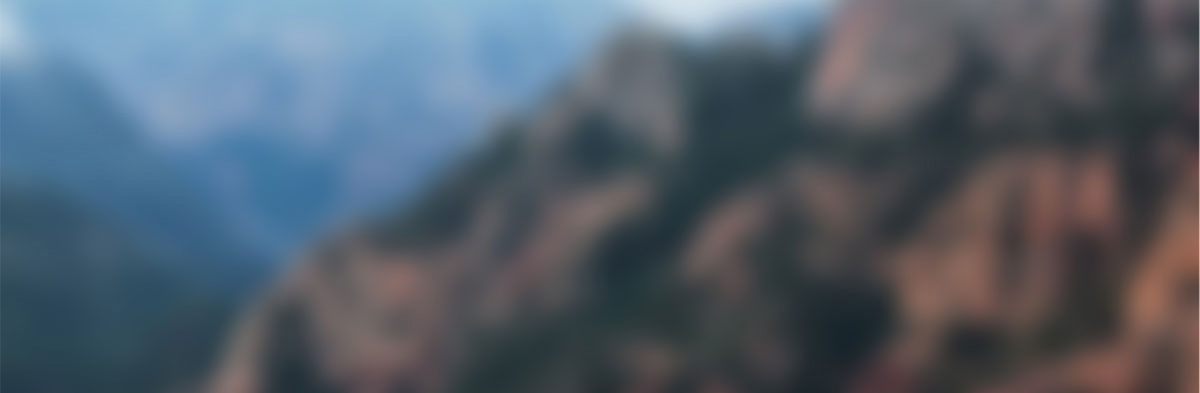
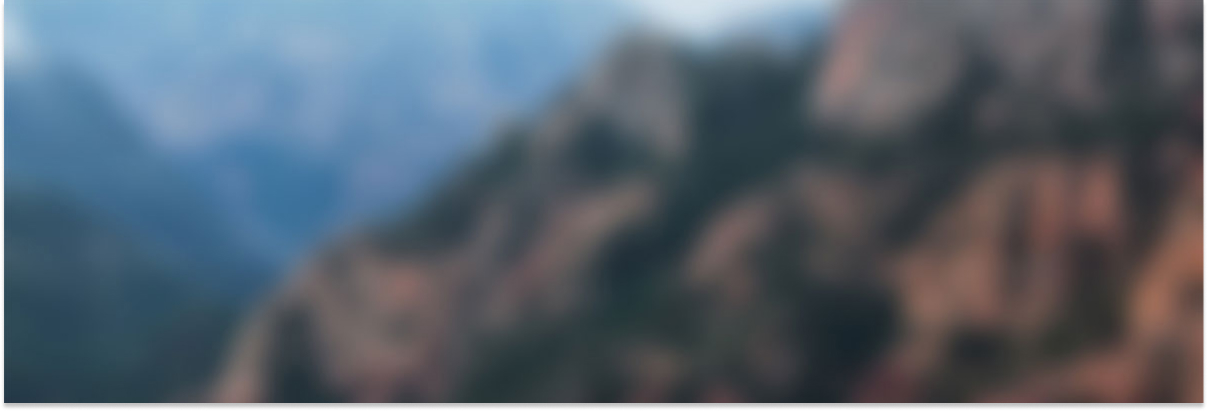
Добавляет стилизацию форм в каталоге

Changed region(s): [[0.0, 0.0, 1.0, 1.0], [0.8633, 0.855, 0.925, 0.916], [0.7708, 0.7939, 0.8325, 0.8244]]

diff --git a/styles/catalog-styles.css b/styles/catalog-styles.css
@@ -2,9 +2,10 @@
   background-color: #3a6488;
   color: #ffffff;
   background-image: url("../images/catalog/filter-background.jpg");
-  background-size: 1200px 403px;
+  /* background-size: 1200px 403px; */
   background-repeat: no-repeat;
-  background-position: center;
+  background-position: top;
+  background-size: auto;
   padding: 35px 70px 70px 70px;
 }
 
@@ -91,7 +92,7 @@
 
 .catalog-filter {
   display: flex;
-  flex-wrap: wrap;
+  flex-wrap: nowrap;
   padding: 0px;
   margin: 0px;
 }
@@ -100,12 +101,35 @@
   padding: 0px;
   margin: 0px;
   margin-right: 70px;
+  border: none;
+}
+
+.catalog-filter-infrastructure {
+  padding: 0px;
+  margin: 0px;
+  margin-bottom: 30px;
+}
+
+
+.catalog-filter-type {
+  padding: 0px;
+  margin: 0px;
+  margin-bottom: 30px;
+}
+
+.catalog-filter-infrastructure-item:last-of-type,
+.catalog-filter-type-item:last-of-type {
+  margin-bottom: 0px;
 }
 
 .cost-filter {
   margin: 0px;
   margin-left: auto;
-  margin-right: 70px
+  margin-right: 70px;
+}
+
+.catalog-filter-cost {
+  margin-bottom: 34px;
 }
 
 .catalog-filter-infrastructure-list {
@@ -120,11 +144,236 @@
   list-style-type: none;
 }
 
-.catalog-filter-infrastructure-item, .catalog-filter-type-item {
+.catalog-filter-infrastructure-item,
+.catalog-filter-type-item {
   font-weight: 400;
   font-size: 18px;
   line-height: 21px;
+  padding: 0px;
+  margin: 0px;
+  margin-bottom: 15px;
 }
+
+.control {
+  position: relative;
+  display: block;
+  padding-left: 40px;
+  cursor: pointer;
+  outline: none;
+}
+
+.control-mark {
+  position: absolute;
+  left: 0px;
+  width: 20px;
+  height: 20px;
+  background-color: #ffffff;
+  border-radius: 4px;
+}
+
+.catalog-filter-infrastructure-item
+.control:hover
+.control-mark {
+  background-color: rgba(255, 255, 255, 0.6);
+}
+
+.catalog-filter-infrastructure-item
+.control:focus-within
+.control-mark {
+  background-color: rgba(255, 255, 255, 0.6);
+  outline: 3px solid #83b3d3;
+}
+
+.catalog-filter-infrastructure-item
+.control:active
+.control-mark {
+  background-color: rgba(255, 255, 255, 0.3);
+}
+
+.control-input[type="checkbox"]:checked + .control-mark::before {
+  position: absolute;
+  top: 5px;
+  left: 4px;
+  width: 12px;
+  height: 10px;
+  background-image: url("../images/catalog/checkbox-marker.svg");
+  background-repeat: no-repeat;
+  background-position: center;
+  content: "";
+  z-index: 1;
+}
+
+.control-input[type="radio"] + .control-mark {
+  border-radius: 50%;
+}
+
+.control-input[type="radio"]:checked + .control-mark::before {
+  position: absolute;
+  top: 5px;
+  left: 5px;
+  width: 10px;
+  height: 10px;
+  background-color: #3f5e72;
+  border-radius: 50%;
+  content: "";
+}
+
+.catalog-filter-type-item
+.control:hover
+.control-mark {
+  background-color: rgba(255, 255, 255, 0.6);
+}
+
+.catalog-filter-type-item
+.control:focus-within
+.control-mark {
+  outline: 3px solid #83b3d3;
+}
+
+.catalog-filter-type-item
+.control:active
+.control-mark {
+  background-color: rgba(255, 255, 255, 0.3);
+}
+
+.range-inputs-wrapper {
+  display: flex;
+  margin-bottom: 32px;
+}
+
+.range-input {
+  box-sizing: border-box;
+  margin: 0px;
+  padding: 0px;
+  padding-left: 18px;
+  width: 144px;
+  font-family: 'PT Sans';
+  font-style: normal;
+  font-weight: 400;
+  font-size: 18px;
+  line-height: 44px;
+  color: #ffffff;
+  background-color: transparent;
+  border: 2px solid #ffffff;
+}
+
+input::-webkit-outer-spin-button,
+input::-webkit-inner-spin-button {
+  -webkit-appearance: none;
+}
+
+input[type=number] {
+  -moz-appearance: textfield;
+}
+
+.input-min {
+  position: relative;
+  border-top-left-radius: 4px;
+  border-bottom-left-radius: 4px;
+  border-right-width: 1px;
+}
+
+.input-max {
+  border-top-right-radius: 4px;
+  border-bottom-right-radius: 4px;
+  border-left-width: 1px;
+}
+
+.input-min::placeholder,
+.input-max::placeholder {
+  color: #ffffff;
+}
+
+.input-min:hover,
+.input-max:hover {
+  border-color: rgba(255, 255, 255, 0.6);
+}
+
+.input-min:focus,
+.input-max:focus {
+  box-shadow:
+  0px 0px 0px 3px #81b3d2,
+  inset 0px 0px 0px 3px #81b3d2;
+  border: 2px solid #ffffff;
+  outline: none;
+}
+
+.input-max:focus {
+  padding-left: 17px;
+}
+
+.input-min:not(:placeholder-shown),
+.input-max:not(:placeholder-shown) {
+  background-color: #756257;
+}
+
+.input-label {
+  position: relative;
+}
+
+.input-min-label,
+.input-max-label {
+  position: absolute;
+  top: 50%;
+  right: 14px;
+  margin: auto;
+  font-weight: 400;
+  font-size: 18px;
+  line-height: 21px;
+  color: rgba(255, 255, 255, 0.3);
+  transform: translateY(-50%);
+  z-index: 1;
+}
+
+.range-scale {
+  position: relative;
+  height: 4px;
+  width: 288px;
+  margin-bottom: 0px;
+  background-color: rgba(255, 255, 255, 0.5);
+}
+
+.range-bar {
+  position: absolute;
+  height: 4px;
+  background-color: #ffffff;
+}
+
+.range-toggle {
+  position: absolute;
+  width: 20px;
+  height: 20px;
+  background-color: #ffffff;
+  border-radius: 5px;
+  border-style: none;
+  padding: 0px;
+  cursor: pointer;
+}
+
+.range-toggle:hover {
+  box-shadow: 0px 4px 10px rgba(0, 0, 0, 0.25);
+}
+
+.range-toggle:focus-within {
+  outline: 3px solid #83b3d3;
+  box-shadow: 0px 4px 10px rgba(0, 0, 0, 0.25);
+}
+
+.range-toggle:active {
+  outline: 2px solid #83b3d3;
+  box-shadow: 0px 7px 15px rgba(0, 0, 0, 0.4);
+}
+
+.toggle-min {
+  top: -8px;
+  left: 0px;
+}
+
+.toggle-max {
+  top: -8px;
+  right: 0px;
+}
+
 
 .filter-button-wrapper {
   display: flex;
@@ -204,7 +453,7 @@
   font-size: 18px;
   line-height: 21px;
   color: #333333;
-  border: 2px solid #E5E5E5;
+  border: 2px solid #e5e5e5;
   border-radius: 4px;
   background: url("../images/catalog/sort-arrow.svg") no-repeat;
   background-position: 258px;

diff --git a/catalog.html b/catalog.html
@@ -84,21 +84,24 @@
                 <ul class="catalog-filter-infrastructure-list">
                   <li class="catalog-filter-infrastructure-item">
                     <label class="control">
-                      <input class="control-input" type="checkbox" name="swimming-pool" checked>
-                        Бассейн
+                      <input class="visually-hidden control-input" type="checkbox" name="swimming-pool" checked>
+                      <span class="control-mark"></span>
+                      <span class="control-title">Бассейн</span>
                     </label>
                   </li>
                   <li class="catalog-filter-infrastructure-item">
                     <label class="control">
-                      <input class="control-input" type="checkbox" name="parking" checked>
-                        Парковка
+                      <input class="visually-hidden control-input" type="checkbox" name="parking" checked>
+                      <span class="control-mark"></span>
+                      <span class="control-title">Парковка</span>
                     </label>
                   </li>
                   <li class="catalog-filter-infrastructure-item">
                     <label class="control">
-                      <input class="control-input" type="checkbox" name="wi-fi">
-                        Wi-Fi
-                      </label>
+                      <input class="visually-hidden control-input" type="checkbox" name="wi-fi">
+                      <span class="control-mark"></span>
+                      <span class="control-title">Wi-Fi</span>
+                    </label>
                   </li>
                 </ul>
               </fieldset>
@@ -108,20 +111,23 @@
                 <ul class="catalog-filter-type-list">
                   <li class="catalog-filter-type-item">
                     <label class="control">
-                      <input class="control-input" type="radio" name="type" value="hotel" checked>
-                        Гостиница
+                      <input class="visually-hidden control-input" type="radio" name="type" value="hotel" checked>
+                      <span class="control-mark"></span>
+                      <span class="control-title">Гостиница</span>
                     </label>
                   </li>
                   <li class="catalog-filter-type-item">
                     <label class="control">
-                      <input class="control-input" type="radio" name="type" value="motel">
-                        Мотель
-                      </label>
+                      <input class="visually-hidden control-input" type="radio" name="type" value="motel">
+                      <span class="control-mark"></span>
+                      <span class="control-title">Мотель</span>
+                    </label>
                   </li>
                   <li class="catalog-filter-type-item">
                     <label class="control">
-                      <input class="control-input" type="radio" name="type" value="apartments">
-                        Апартаменты
+                      <input class="visually-hidden control-input" type="radio" name="type" value="apartments">
+                      <span class="control-mark"></span>
+                      <span class="control-title">Апартаменты</span>
                     </label>
                   </li>
                 </ul>
@@ -129,6 +135,26 @@
 
               <fieldset class="catalog-filter-group cost-filter">
                 <legend class="catalog-filter-cost">Стоимость, ₽:</legend>
+                <div class="range-inputs-wrapper">
+                  <label class="input-label">
+                    <span class="input-min-label">от</span>
+                    <input class="range-input input-min" type="number" value="" placeholder="0" name="min-price">
+                  </label>
+                  <label class="input-label">
+                    <span class="input-max-label">до</span>
+                    <input class="range-input input-max" type="number" value="" placeholder="9000" name="max-price">
+                  </label>
+                </div>
+                <div class="range-scale">
+                  <div class="range-bar" style="left: 0px; width: 237px">
+                    <button class="range-toggle toggle-min">
+                      <span class="visually-hidden">Изменить минимальную цену.</span>
+                    </button>
+                    <button class="range-toggle toggle-max">
+                      <span class="visually-hidden">Изменить максимальную цену.</span>
+                    </button>
+                  </div>
+                </div>
               </fieldset>
 
               <div class="filter-button-wrapper">
